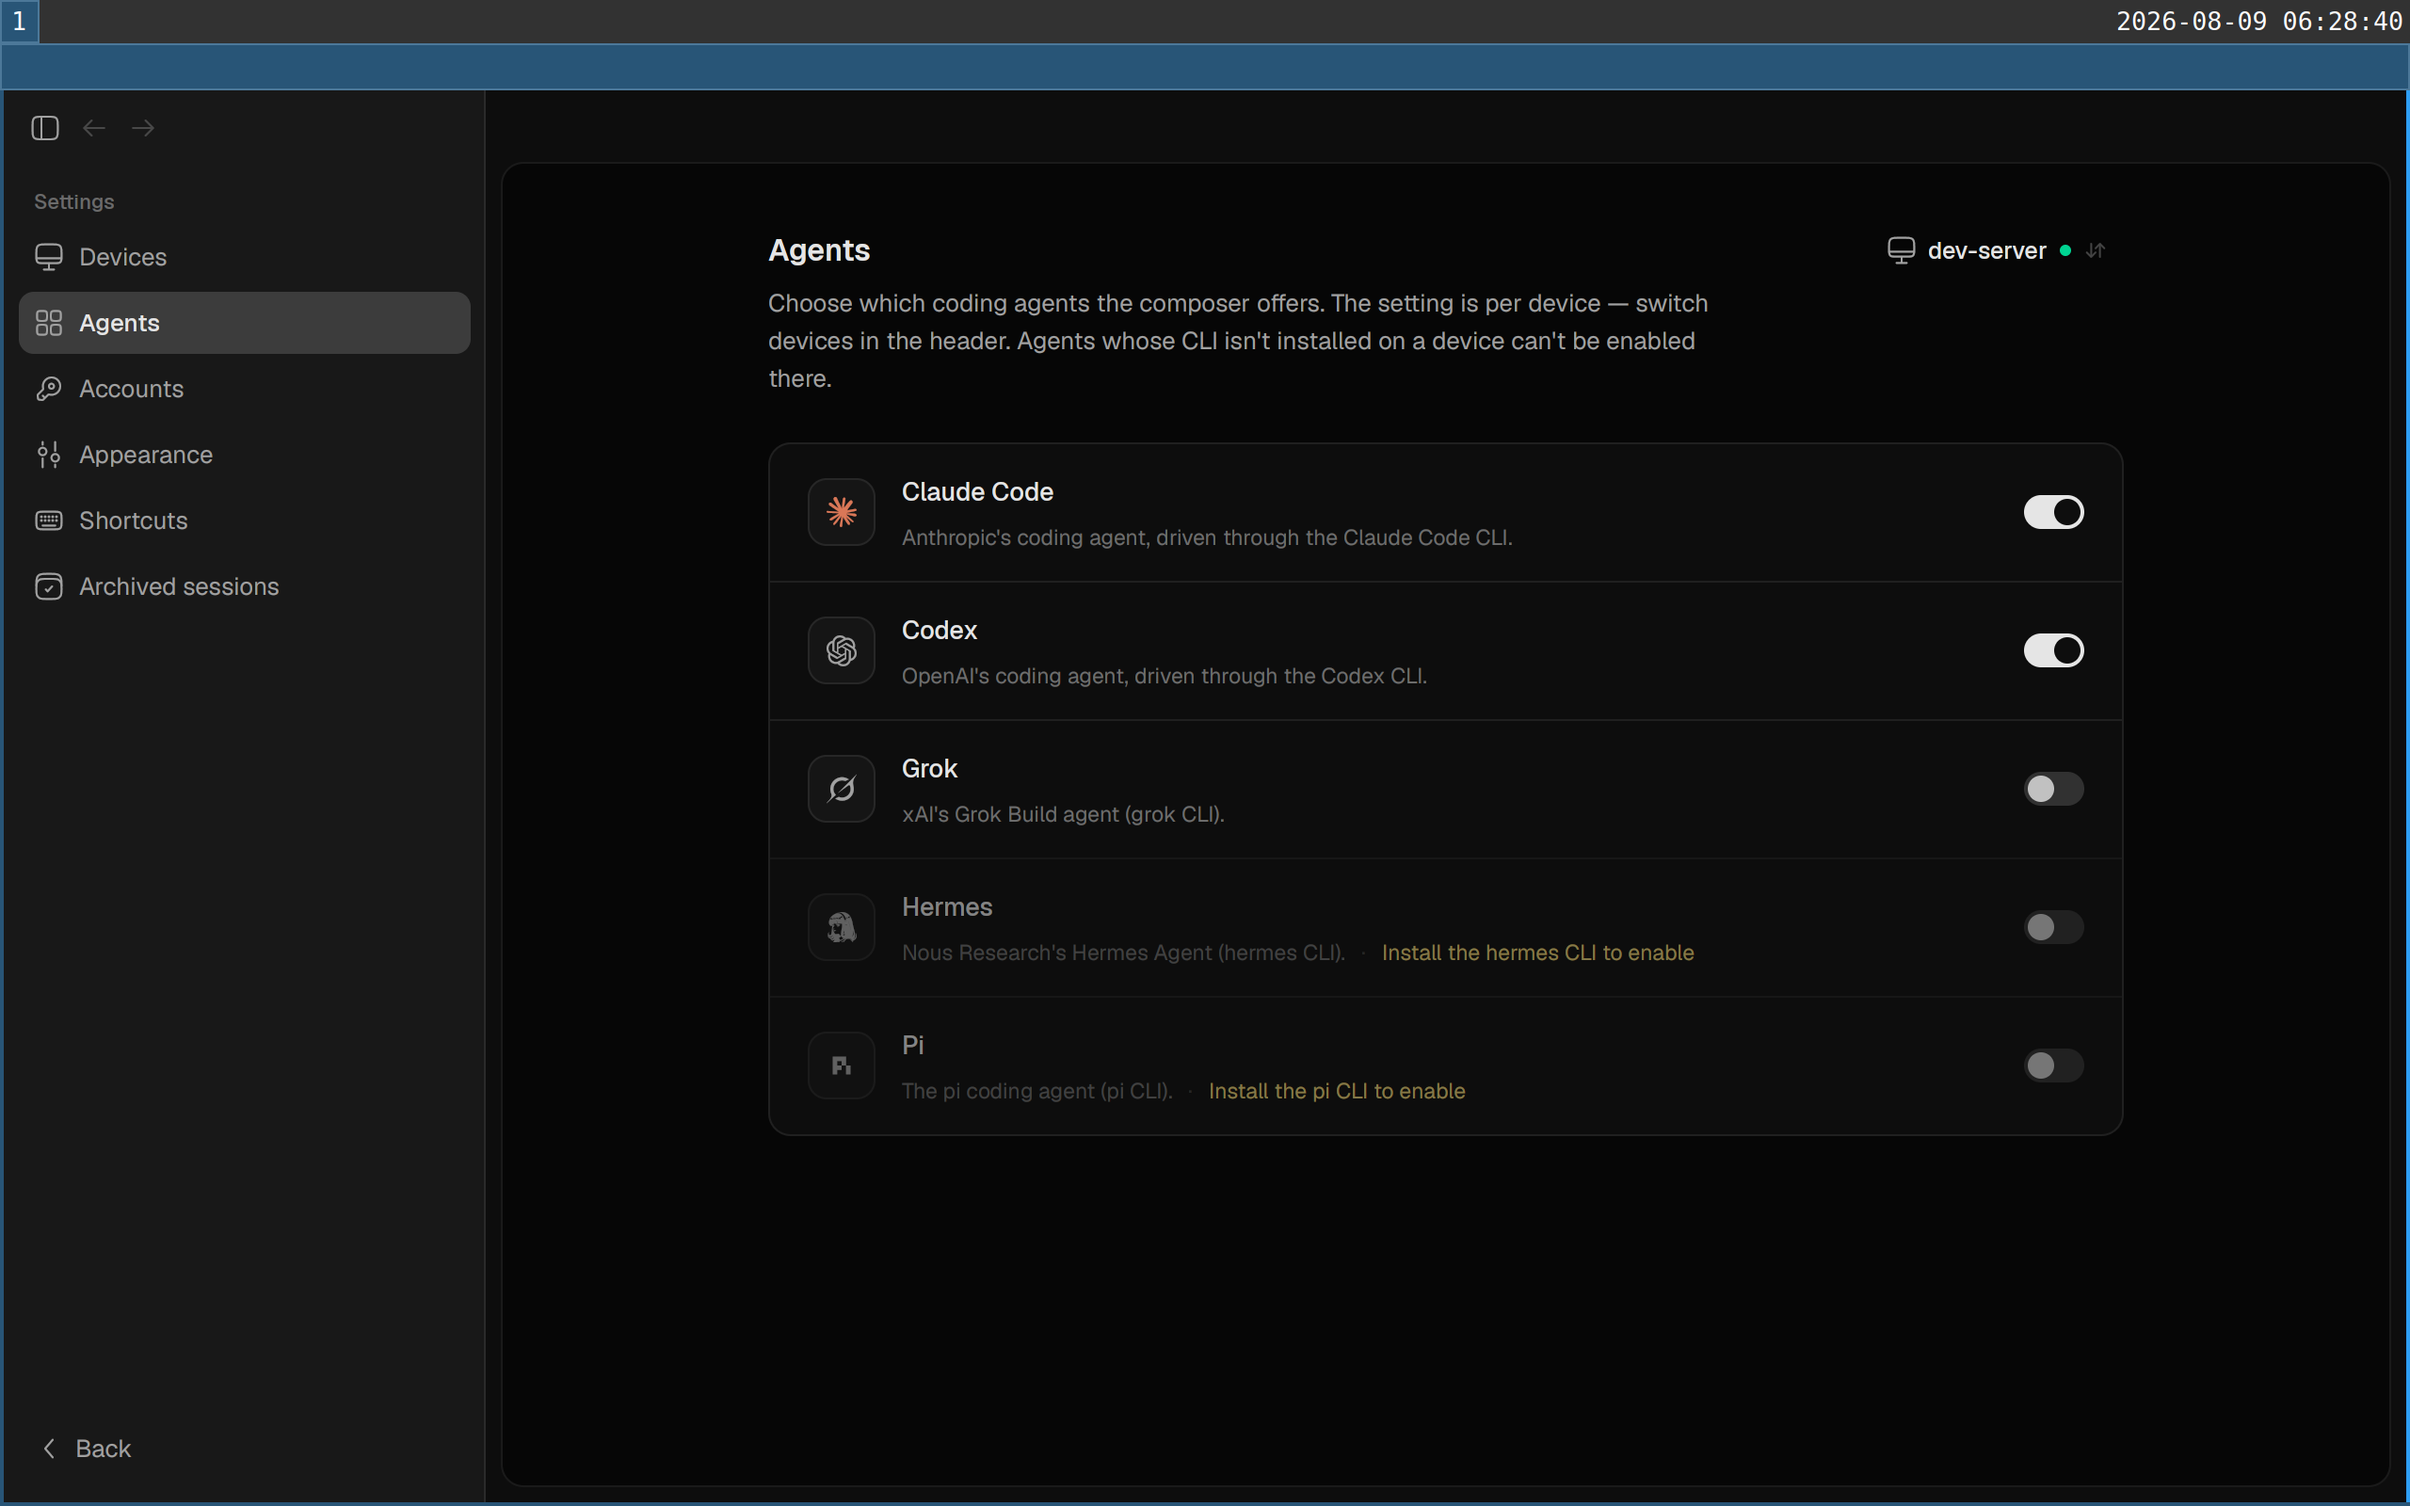
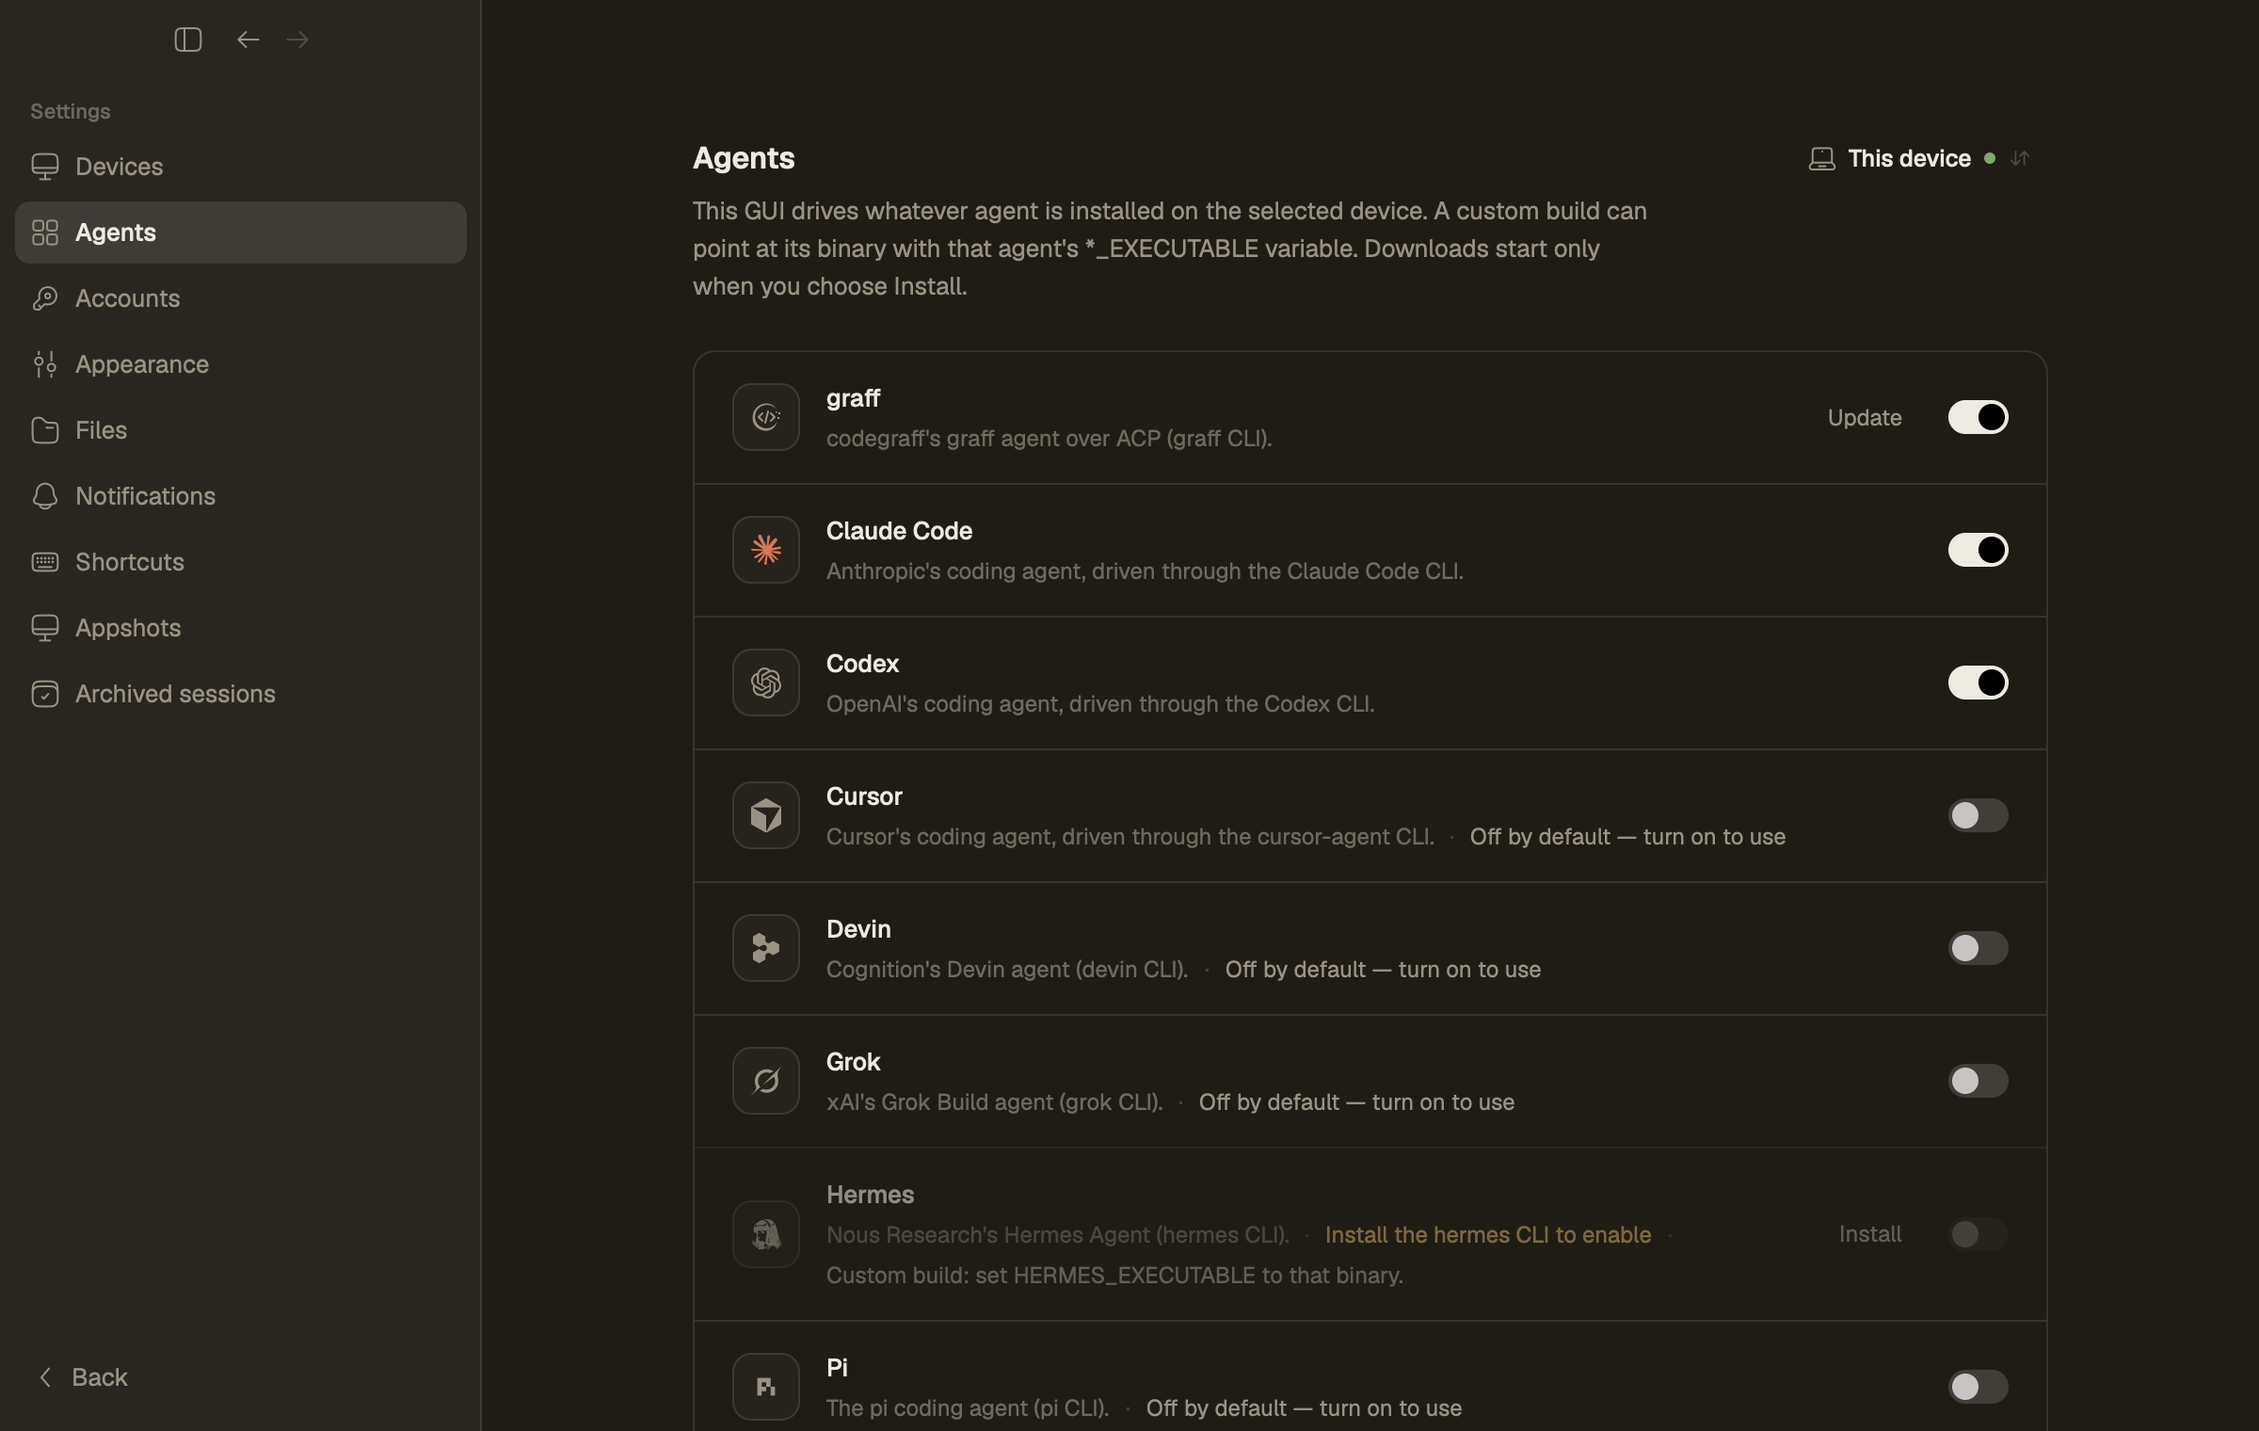
Refresh Harness screenshots with Codegraff theme

diff --git a/apps/landing/public/index.html b/apps/landing/public/index.html
@@ -938,16 +938,16 @@
       </div>
       <div class="panel-row p-gallery">
         <figure>
-          <img src="/assets/harness-sync.png" alt="A Harness session mirrored to another device" loading="lazy" width="907" height="627" />
-          <figcaption>Follow a session on another device</figcaption>
+          <img src="/assets/harness-chat-codegraff.png" alt="Harness conversation with graff in the Codegraff Dark theme" loading="lazy" width="2400" height="1520" />
+          <figcaption>Keep the conversation together</figcaption>
         </figure>
         <figure>
-          <img src="/assets/harness-agents.png" alt="Harness agent settings on desktop" loading="lazy" width="907" height="627" />
+          <img src="/assets/harness-agents.png" alt="Current Harness agent settings with graff listed first" loading="lazy" width="2400" height="1520" />
           <figcaption>Choose the agents on this device</figcaption>
         </figure>
         <figure>
-          <img src="/assets/harness-sync.png" alt="Synced conversation in Harness" loading="lazy" width="907" height="627" />
-          <figcaption>Pick up where you left off</figcaption>
+          <img src="/assets/harness-workshop.png" alt="CodeGraff workshop illustration" loading="lazy" width="1611" height="976" />
+          <figcaption>CodeGraff visual language</figcaption>
         </figure>
       </div>
       <div class="panel-row p-devices">

diff --git a/README.md b/README.md
@@ -26,8 +26,8 @@
 </p>
 
 <p align="center">
-  <img src="docs/media/registry-sync/03-transcript-synced.png" width="960" alt="A Harness conversation synced to another device">
-  <br><sub>A conversation in Harness, available on another trusted device.</sub>
+  <img src="docs/media/readme/codegraff-chat-dark.png" width="960" alt="Harness conversation with the Codegraff Dark theme and graff agent">
+  <br><sub>Harness with graff selected and the built-in Codegraff Dark theme. Synthetic example conversation.</sub>
 </p>
 
 ## The workspace
@@ -37,10 +37,10 @@ Hermes, Pi, OpenCode, and Antigravity into one desktop app. Pick the agent and
 model for each conversation, keep workspaces and sessions together, and review
 changes beside the chat. Files, a browser, and terminals stay close at hand.
 
-| Choose agents on each device | Follow work across devices |
-| :---: | :---: |
-| <img src="docs/media/harness-settings/s2-agents-settings.png" width="480" alt="Harness settings showing available coding agents"> | <img src="apps/landing/public/assets/harness-sync.png" width="480" alt="A synced Harness session in the desktop app"> |
-| Installed agents appear in **Settings → Agents**. | Sign in when you want another trusted device to follow or control a session. |
+<p align="center">
+  <img src="docs/media/readme/codegraff-agents-dark.png" width="960" alt="Current Harness Agents settings in the Codegraff Dark theme, with graff listed first">
+  <br><sub>Installed agents appear in <strong>Settings → Agents</strong>. Sign in when you want another trusted device to follow or control a session.</sub>
+</p>
 
 Harness starts in local mode without an account. The desktop app uses Rust and
 GPUI; its iOS companion is a SwiftUI viewport for synced sessions.

diff --git a/README.malay.md b/README.malay.md
@@ -13,9 +13,9 @@ mengikuti sesi daripada peranti lain yang dipercayai.
 
 ## Di dalam Harness
 
-| Pilih ejen | Ikuti sesi yang sama pada peranti lain |
+| Pilih ejen | Bekerja dengan graff |
 | :---: | :---: |
-| <img src="docs/media/harness-settings/s2-agents-settings.png" alt="Tetapan ejen Harness" width="520"> | <img src="docs/media/registry-sync/03-transcript-synced.png" alt="Sesi Harness yang disegerakkan" width="520"> |
+| <img src="docs/media/readme/codegraff-agents-dark.png" alt="Tetapan ejen Harness terkini dalam tema Codegraff Dark" width="520"> | <img src="docs/media/readme/codegraff-chat-dark.png" alt="Perbualan contoh dengan graff dalam tema Codegraff Dark" width="520"> |
 
 Pilih model, semak perubahan di sisi perbualan, serta buka fail dan pelayar
 tanpa meninggalkan aplikasi. Desktop menggunakan Rust/GPUI; aplikasi iOS

diff --git a/README.de.md b/README.de.md
@@ -13,9 +13,9 @@ synchronisieren.
 
 ## Ein Blick in die App
 
-| Agents auswählen | Sitzungen auf anderen Geräten verfolgen |
+| Agents auswählen | Mit graff arbeiten |
 | :---: | :---: |
-| <img src="docs/media/harness-settings/s2-agents-settings.png" alt="Agent-Einstellungen in Harness" width="520"> | <img src="docs/media/registry-sync/03-transcript-synced.png" alt="Synchronisierte Sitzung in Harness" width="520"> |
+| <img src="docs/media/readme/codegraff-agents-dark.png" alt="Aktuelle Agent-Einstellungen im Codegraff-Dark-Design" width="520"> | <img src="docs/media/readme/codegraff-chat-dark.png" alt="Beispielgespräch mit graff im Codegraff-Dark-Design" width="520"> |
 
 Modell und Arbeitsverzeichnis auswählen, Änderungen neben dem Chat prüfen
 und Dateien oder den Browser direkt in Harness öffnen. Die Desktop-App nutzt

diff --git a/README.indo.md b/README.indo.md
@@ -13,9 +13,9 @@ sesi dari perangkat lain yang tepercaya.
 
 ## Di dalam Harness
 
-| Pilih agen | Ikuti sesi yang sama di perangkat lain |
+| Pilih agen | Bekerja dengan graff |
 | :---: | :---: |
-| <img src="docs/media/harness-settings/s2-agents-settings.png" alt="Pengaturan agen Harness" width="520"> | <img src="docs/media/registry-sync/03-transcript-synced.png" alt="Sesi Harness yang tersinkron" width="520"> |
+| <img src="docs/media/readme/codegraff-agents-dark.png" alt="Pengaturan agen Harness terbaru dalam tema Codegraff Dark" width="520"> | <img src="docs/media/readme/codegraff-chat-dark.png" alt="Contoh percakapan graff dalam tema Codegraff Dark" width="520"> |
 
 Pilih model, tinjau perubahan di samping percakapan, serta buka berkas dan
 peramban tanpa meninggalkan aplikasi. Desktop memakai Rust/GPUI; pendamping

diff --git a/README.zh-CN.md b/README.zh-CN.md
@@ -10,9 +10,9 @@
 
 ## 看看 Harness
 
-| 选择编码 Agent | 跨设备查看同一会话 |
+| 选择编码 Agent | 使用 graff 工作 |
 | :---: | :---: |
-| <img src="docs/media/harness-settings/s2-agents-settings.png" alt="Harness Agent 设置" width="520"> | <img src="docs/media/registry-sync/03-transcript-synced.png" alt="已同步的 Harness 会话" width="520"> |
+| <img src="docs/media/readme/codegraff-agents-dark.png" alt="Codegraff Dark 主题下当前的 Harness Agent 设置" width="520"> | <img src="docs/media/readme/codegraff-chat-dark.png" alt="Codegraff Dark 主题下的 graff 示例会话" width="520"> |
 
 Harness 内置 [CodeGraff](https://github.com/justrach/codegraff) 适配器。下方标志和插画来自 CodeGraff 项目；来源和许可见[第三方声明](THIRD_PARTY_NOTICES.md)。
 

diff --git a/docs/media/readme/README.md b/docs/media/readme/README.md
@@ -1,0 +1,15 @@
+# README screenshots
+
+These are captures of the production Harness desktop shell with the built-in
+Codegraff Dark theme. The conversation and device data are synthetic. The Agents
+page reflects tools installed on the machine that generated the capture.
+
+Regenerate on macOS with:
+
+```sh
+cargo run --locked -p harness-ui --example readme-fixture \
+  --features appshots-fixture --profile app-dev -- docs/media/readme
+```
+
+The matching landing page image files are copies in
+`apps/landing/public/assets/`.
